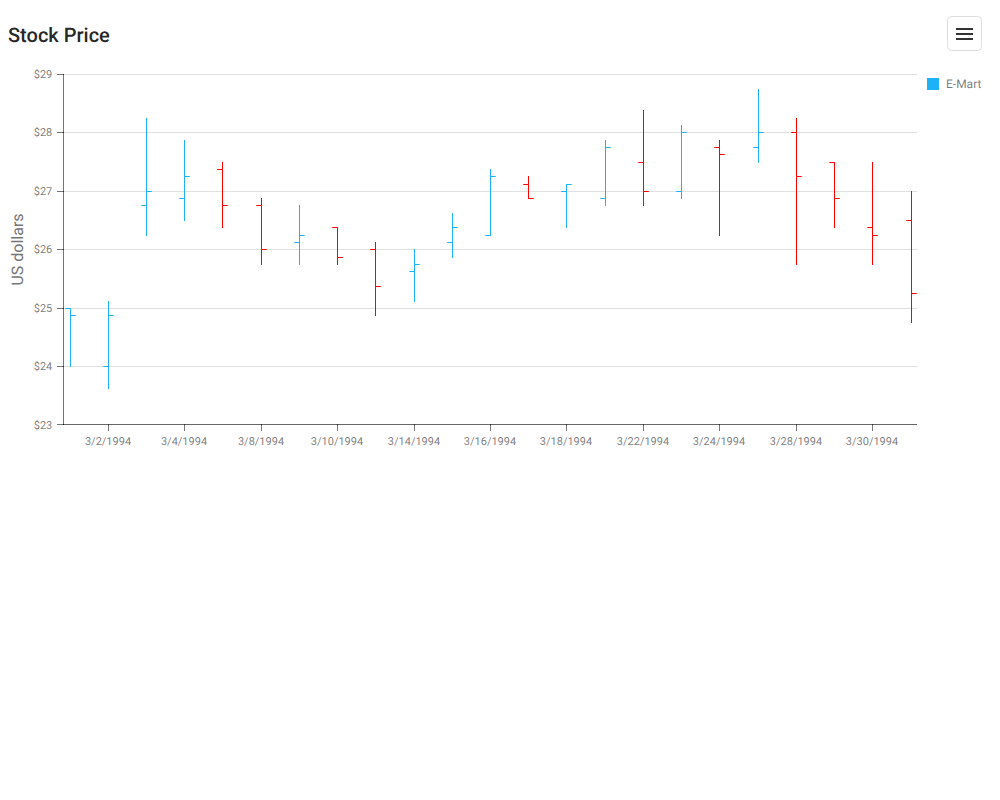
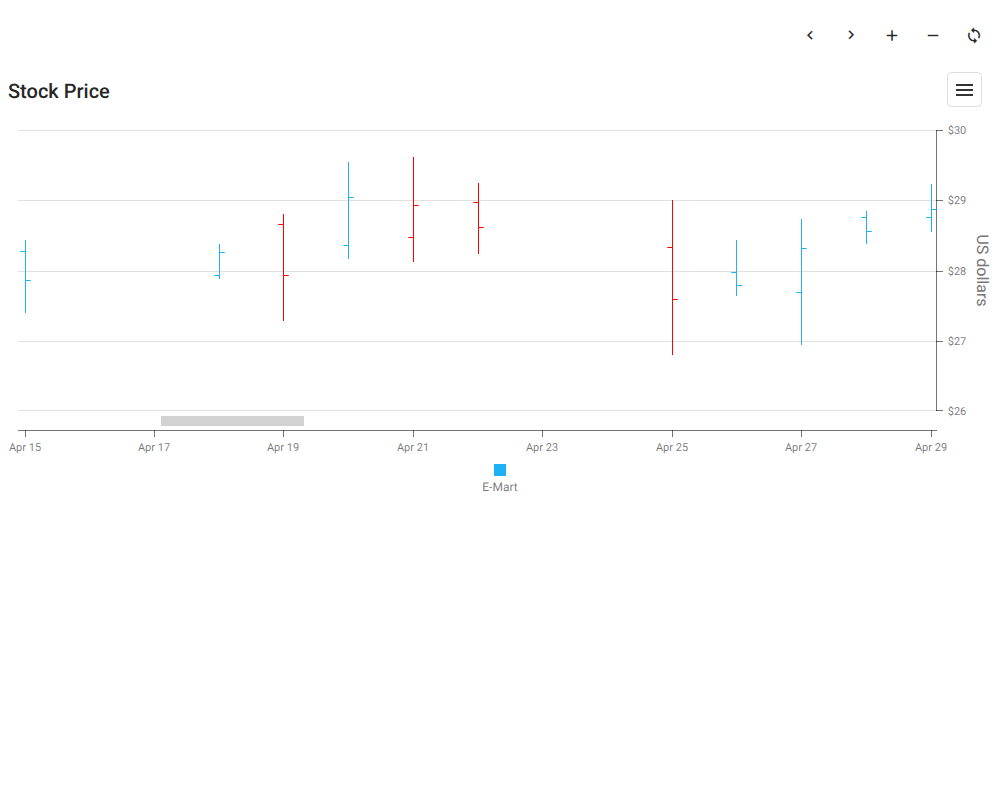
Improve the Charts - Stock demo (jQuery) (#35604)

diff --git a/apps/demos/Demos/Charts/Stock/jQuery/index.js b/apps/demos/Demos/Charts/Stock/jQuery/index.js
@@ -1,55 +1,154 @@
 $(() => {
-  $('#chart').dxChart({
+  const dayMs = 24 * 60 * 60 * 1000;
+
+  const panStepFraction = 0.25;
+  const zoomFactor = 0.75;
+  const minVisibleSpanMs = 3 * dayMs;
+
+  const initialStart = new Date(1994, 3, 15);
+  const initialEnd = new Date(1994, 3, 29);
+
+  const data = generateStockData(new Date(1994, 3, 1), 65);
+  const dataMin = data[0].date.getTime();
+  const dataMax = data[data.length - 1].date.getTime();
+
+  const chart = $('#chart').dxChart({
     title: 'Stock Price',
-    dataSource,
-    commonSeriesSettings: {
-      argumentField: 'date',
-      type: 'stock',
+    dataSource: data,
+    commonSeriesSettings: { argumentField: 'date', type: 'stock' },
+    series: [{
+      name: 'E-Mart',
+      openValueField: 'o',
+      highValueField: 'h',
+      lowValueField: 'l',
+      closeValueField: 'c',
+      reduction: { color: 'red' },
+    }],
+    zoomAndPan: {
+      argumentAxis: 'both',
+      dragToZoom: true,
+      allowMouseWheel: true,
     },
-    series: [
-      {
-        name: 'E-Mart',
-        openValueField: 'o',
-        highValueField: 'h',
-        lowValueField: 'l',
-        closeValueField: 'c',
-        reduction: {
-          color: 'red',
-        },
-      },
-    ],
+    scrollBar: { visible: true, position: 'bottom' },
+    legend: { verticalAlignment: 'bottom', horizontalAlignment: 'center' },
     valueAxis: {
+      position: 'right',
       tickInterval: 1,
-      title: {
-        text: 'US dollars',
-      },
-      label: {
-        format: {
-          type: 'currency',
-          precision: 0,
-        },
-      },
+      title: { text: 'US dollars' },
+      label: { format: { type: 'currency', precision: 0 } },
     },
     argumentAxis: {
-      workdaysOnly: true,
+      workdaysOnly: false,
+      visualRange: { startValue: initialStart, endValue: initialEnd },
       label: {
-        format: 'shortDate',
+        format: 'MMM dd',
+        overlappingBehavior: 'rotate',
+        rotationAngle: 30,
       },
     },
-    export: {
-      enabled: true,
-    },
+    export: { enabled: true },
     tooltip: {
       enabled: true,
       location: 'edge',
-      customizeTooltip(arg) {
+      customizeTooltip({
+        openValue, closeValue, highValue, lowValue,
+      }) {
         return {
-          text: `Open: $${arg.openValue}<br/>`
-                            + `Close: $${arg.closeValue}<br/>`
-                            + `High: $${arg.highValue}<br/>`
-                            + `Low: $${arg.lowValue}<br/>`,
+          text: [
+            `Open: $${openValue}`,
+            `Close: $${closeValue}`,
+            `High: $${highValue}`,
+            `Low: $${lowValue}`,
+          ].join('<br/>'),
         };
       },
     },
+  }).dxChart('instance');
+
+  function clamp(value, min, max) {
+    return Math.min(Math.max(value, min), max);
+  }
+
+  function getRange() {
+    const { startValue, endValue } = chart.getArgumentAxis().visualRange();
+    return { start: startValue.getTime(), end: endValue.getTime() };
+  }
+
+  function setRange(start, end) {
+    const span = clamp(end - start, minVisibleSpanMs, dataMax - dataMin);
+    const center = (start + end) / 2;
+    const newStart = clamp(center - span / 2, dataMin, dataMax - span);
+
+    chart.getArgumentAxis().visualRange({
+      startValue: new Date(newStart),
+      endValue: new Date(newStart + span),
+    });
+  }
+
+  function pan(direction) {
+    const { start, end } = getRange();
+    const shift = (end - start) * panStepFraction * direction;
+    setRange(start + shift, end + shift);
+  }
+
+  function zoom(factor) {
+    const { start, end } = getRange();
+    const center = (start + end) / 2;
+    const half = ((end - start) * factor) / 2;
+    setRange(center - half, center + half);
+  }
+
+  function resetZoom() {
+    setRange(initialStart.getTime(), initialEnd.getTime());
+  }
+
+  $('#toolbar').dxToolbar({
+    items: [
+      {
+        location: 'after',
+        widget: 'dxButton',
+        options: {
+          icon: 'chevronleft',
+          hint: 'Pan Left',
+          onClick: () => pan(-1),
+        },
+      },
+      {
+        location: 'after',
+        widget: 'dxButton',
+        options: {
+          icon: 'chevronright',
+          hint: 'Pan Right',
+          onClick: () => pan(1),
+        },
+      },
+      {
+        location: 'after',
+        widget: 'dxButton',
+        options: {
+          icon: 'plus',
+          hint: 'Zoom In',
+          onClick: () => zoom(zoomFactor),
+        },
+      },
+      {
+        location: 'after',
+        widget: 'dxButton',
+        options: {
+          icon: 'minus',
+          hint: 'Zoom Out',
+          onClick: () => zoom(1 / zoomFactor),
+        },
+      },
+      {
+        location: 'after',
+        widget: 'dxButton',
+        options: {
+          icon: 'refresh',
+          hint: 'Reset Zoom',
+          onClick: resetZoom,
+        },
+      },
+    ],
   });
 });

diff --git a/apps/demos/Demos/Charts/Stock/jQuery/data.js b/apps/demos/Demos/Charts/Stock/jQuery/data.js
@@ -1,139 +1,31 @@
-const dataSource = [{
-  date: new Date(1994, 2, 1),
-  l: 24.00,
-  h: 25.00,
-  o: 25.00,
-  c: 24.875,
-}, {
-  date: new Date(1994, 2, 2),
-  l: 23.625,
-  h: 25.125,
-  o: 24.00,
-  c: 24.875,
-}, {
-  date: new Date(1994, 2, 3),
-  l: 26.25,
-  h: 28.25,
-  o: 26.75,
-  c: 27.00,
-}, {
-  date: new Date(1994, 2, 4),
-  l: 26.50,
-  h: 27.875,
-  o: 26.875,
-  c: 27.25,
-}, {
-  date: new Date(1994, 2, 7),
-  l: 26.375,
-  h: 27.50,
-  o: 27.375,
-  c: 26.75,
-}, {
-  date: new Date(1994, 2, 8),
-  l: 25.75,
-  h: 26.875,
-  o: 26.75,
-  c: 26.00,
-}, {
-  date: new Date(1994, 2, 9),
-  l: 25.75,
-  h: 26.75,
-  o: 26.125,
-  c: 26.25,
-}, {
-  date: new Date(1994, 2, 10),
-  l: 25.75,
-  h: 26.375,
-  o: 26.375,
-  c: 25.875,
-}, {
-  date: new Date(1994, 2, 11),
-  l: 24.875,
-  h: 26.125,
-  o: 26.00,
-  c: 25.375,
-}, {
-  date: new Date(1994, 2, 14),
-  l: 25.125,
-  h: 26.00,
-  o: 25.625,
-  c: 25.75,
-}, {
-  date: new Date(1994, 2, 15),
-  l: 25.875,
-  h: 26.625,
-  o: 26.125,
-  c: 26.375,
-}, {
-  date: new Date(1994, 2, 16),
-  l: 26.25,
-  h: 27.375,
-  o: 26.25,
-  c: 27.25,
-}, {
-  date: new Date(1994, 2, 17),
-  l: 26.875,
-  h: 27.25,
-  o: 27.125,
-  c: 26.875,
-}, {
-  date: new Date(1994, 2, 18),
-  l: 26.375,
-  h: 27.125,
-  o: 27.00,
-  c: 27.125,
-}, {
-  date: new Date(1994, 2, 21),
-  l: 26.75,
-  h: 27.875,
-  o: 26.875,
-  c: 27.75,
-}, {
-  date: new Date(1994, 2, 22),
-  l: 26.75,
-  h: 28.375,
-  o: 27.50,
-  c: 27.00,
-}, {
-  date: new Date(1994, 2, 23),
-  l: 26.875,
-  h: 28.125,
-  o: 27.00,
-  c: 28.00,
-}, {
-  date: new Date(1994, 2, 24),
-  l: 26.25,
-  h: 27.875,
-  o: 27.75,
-  c: 27.625,
-}, {
-  date: new Date(1994, 2, 25),
-  l: 27.50,
-  h: 28.75,
-  o: 27.75,
-  c: 28.00,
-}, {
-  date: new Date(1994, 2, 28),
-  l: 25.75,
-  h: 28.25,
-  o: 28.00,
-  c: 27.25,
-}, {
-  date: new Date(1994, 2, 29),
-  l: 26.375,
-  h: 27.50,
-  o: 27.50,
-  c: 26.875,
-}, {
-  date: new Date(1994, 2, 30),
-  l: 25.75,
-  h: 27.50,
-  o: 26.375,
-  c: 26.25,
-}, {
-  date: new Date(1994, 2, 31),
-  l: 24.75,
-  h: 27.00,
-  o: 26.50,
-  c: 25.25,
-}];
+function generateStockData(startDate, days) {
+  function randomOffset(amplitude) {
+    return (Math.random() - 0.5) * amplitude;
+  }
+
+  const data = [];
+  const current = new Date(startDate);
+  let price = 25;
+
+  while (data.length < days) {
+    const day = current.getDay();
+    if (day !== 0 && day !== 6) {
+      const open = price + randomOffset(1.5);
+      const close = open + randomOffset(1.5);
+      const high = Math.max(open, close) + Math.random() * 0.8;
+      const low = Math.min(open, close) - Math.random() * 0.8;
+
+      data.push({
+        date: new Date(current),
+        o: +open.toFixed(2),
+        h: +high.toFixed(2),
+        l: +low.toFixed(2),
+        c: +close.toFixed(2),
+      });
+
+      price = close;
+    }
+    current.setDate(current.getDate() + 1);
+  }
+  return data;
+}

diff --git a/apps/demos/Demos/Charts/Stock/jQuery/index.html b/apps/demos/Demos/Charts/Stock/jQuery/index.html
@@ -14,6 +14,7 @@
   </head>
   <body class="dx-viewport">
     <div class="demo-container">
+      <div id="toolbar"></div>
       <div id="chart"></div>
     </div>
   </body>
